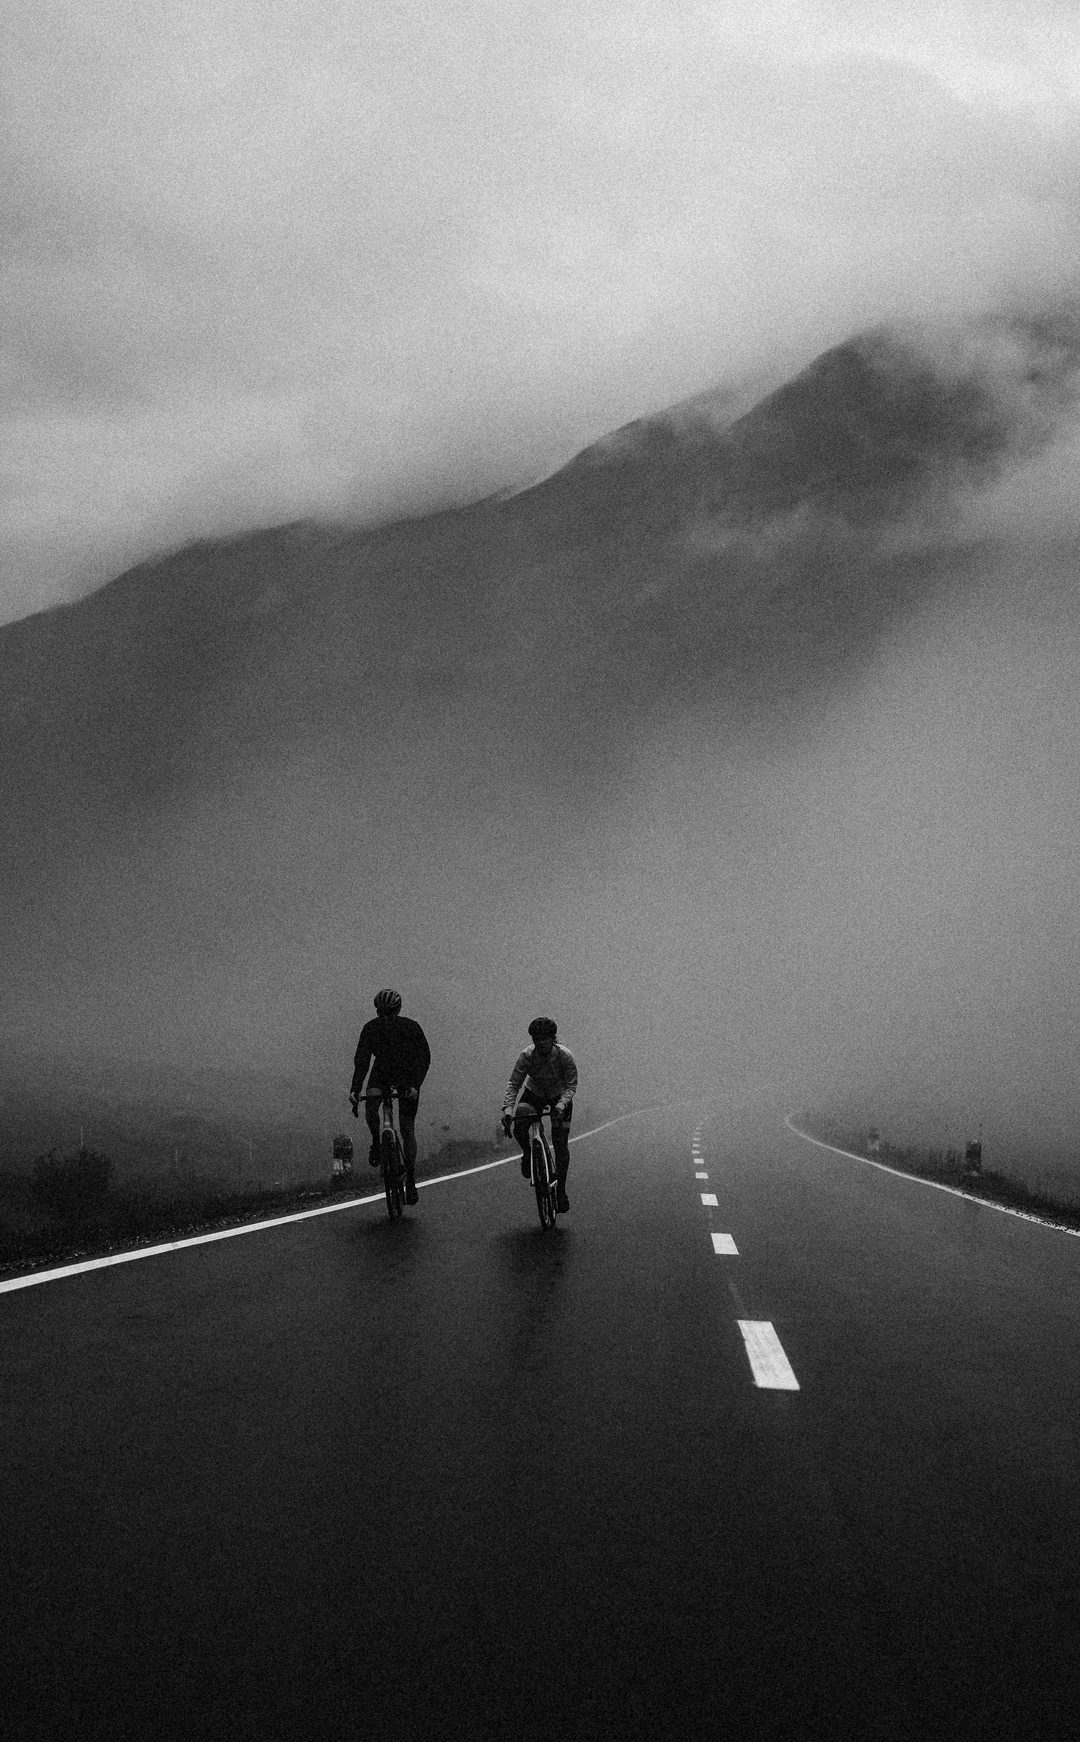
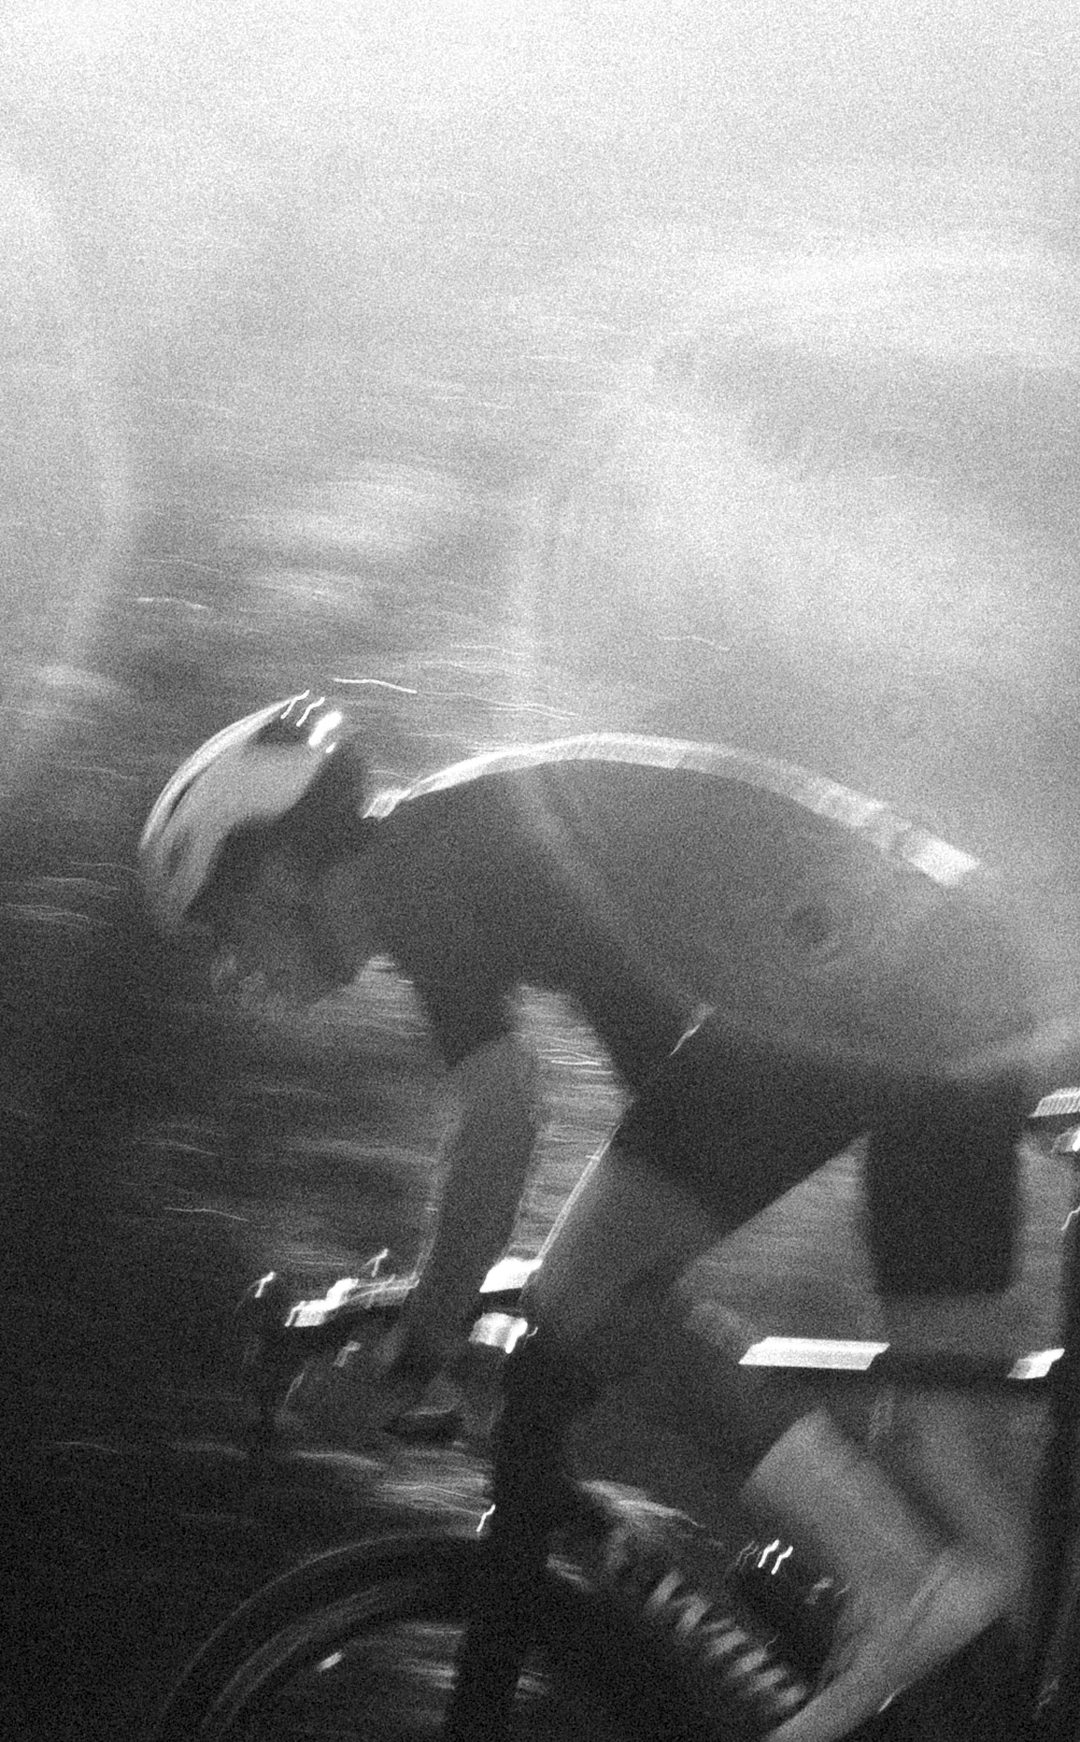
Hero: nuova foto MAT_6327, più chiara e inquadratura in basso; nuova foto Behind

diff --git a/index.html b/index.html
@@ -10,8 +10,8 @@
 <link rel="icon" type="image/png" sizes="32x32" href="favicon-32.png">
 <link rel="icon" type="image/png" sizes="512x512" href="favicon.png">
 <link rel="apple-touch-icon" href="apple-touch-icon.png">
-<link rel="preload" as="image" href="img/hero.jpg?v=10" media="(min-width: 769px)">
-<link rel="preload" as="image" href="img/hero-mobile.jpg?v=1" media="(max-width: 768px)">
+<link rel="preload" as="image" href="img/hero.jpg?v=15" media="(min-width: 769px)">
+<link rel="preload" as="image" href="img/hero-mobile.jpg?v=6" media="(max-width: 768px)">
 <meta name="theme-color" content="#F0EDE8">
 <meta property="og:type" content="website">
 <meta property="og:site_name" content="Northside Cycling Club">
@@ -112,7 +112,7 @@ nav {
   justify-content: space-between;
   align-items: center;
   padding: 24px 40px;
-  background: linear-gradient(to bottom, rgba(240,237,232,0.92) 0%, transparent 100%);
+  background: linear-gradient(to bottom, rgba(240,237,232,0.55) 0%, transparent 100%);
   transform: translateY(0);
   transition: transform 0.35s cubic-bezier(.4,0,.2,1);
   will-change: transform;
@@ -241,16 +241,16 @@ nav.menu-open .nav-toggle span:nth-child(2) { top: 7px; transform: rotate(-45deg
   flex-direction: column;
   justify-content: space-between;
   padding: 0 40px 32px 40px;
-  background-image: url('img/hero.jpg?v=10');
+  background-image: url('img/hero.jpg?v=15');
   background-size: cover;
-  background-position: center;
+  background-position: center bottom;
   position: relative;
 }
 #hero::after {
   content: '';
   position: absolute;
   inset: 0;
-  background-color: rgba(240,237,232,0.40); background-image: var(--grain); background-repeat: repeat;
+  background-color: rgba(240,237,232,0.58); background-image: var(--grain); background-repeat: repeat;
   z-index: 0;
 }
 /* Sfumatura chiara in fondo: rende leggibili le scritte in basso */
@@ -393,7 +393,7 @@ nav.menu-open .nav-toggle span:nth-child(2) { top: 7px; transform: rotate(-45deg
 }
 @keyframes blink { 0%, 100% { opacity: 1; } 50% { opacity: 0; } }
 @media (max-width: 768px) {
-  #hero { padding: 0 24px max(36px, env(safe-area-inset-bottom, 0px)) 24px; background-image: url('img/hero-mobile.jpg?v=1'); }
+  #hero { padding: 0 24px max(36px, env(safe-area-inset-bottom, 0px)) 24px; background-image: url('img/hero-mobile.jpg?v=6'); }
   .hero-title { font-size: clamp(2em, 8vw, 3em); }
   .hero-claim { font-size: 9px; white-space: normal; text-align: center; }
   .hero-bottom { flex-direction: column; align-items: center; gap: 14px; }
@@ -1076,7 +1076,7 @@ footer {
 html{ background-color:var(--bg); }
 body{ background:transparent; }
 #manifesto::after{ background-color:rgba(240,237,232,0.82); }
-#hero::after{ background-color:rgba(240,237,232,0.40); }
+#hero::after{ background-color:rgba(240,237,232,0.58); }
 #upcoming,#how,#behind,#join,footer{ background:transparent; }
 
 /* ── THE PLACE (scroll-driven map -> dissolve -> copy) ── */
@@ -1249,7 +1249,7 @@ body{ background:transparent; }
 <section id="behind">
   <h2 class="behind-title">Behind NSCC</h2>
   <div class="behind-photo-wrap">
-    <img class="behind-photo" src="img/matenri.jpeg" alt="Enri and Matti, founders of NSCC" loading="lazy" decoding="async">
+    <img class="behind-photo" src="img/behind.jpg?v=1" alt="Enri and Matti, founders of NSCC" loading="lazy" decoding="async">
     <div class="behind-names">
       <span class="behind-name">Enri</span>
       <div class="behind-line"></div>
